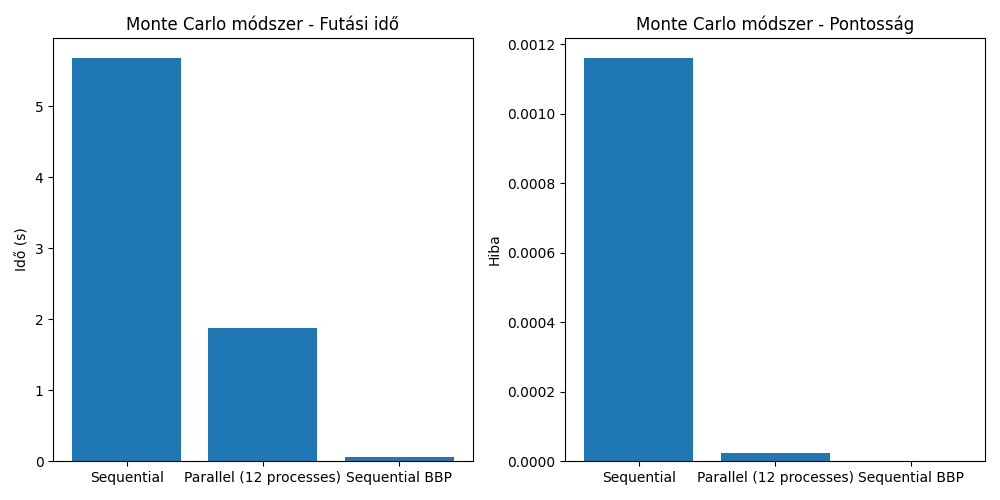
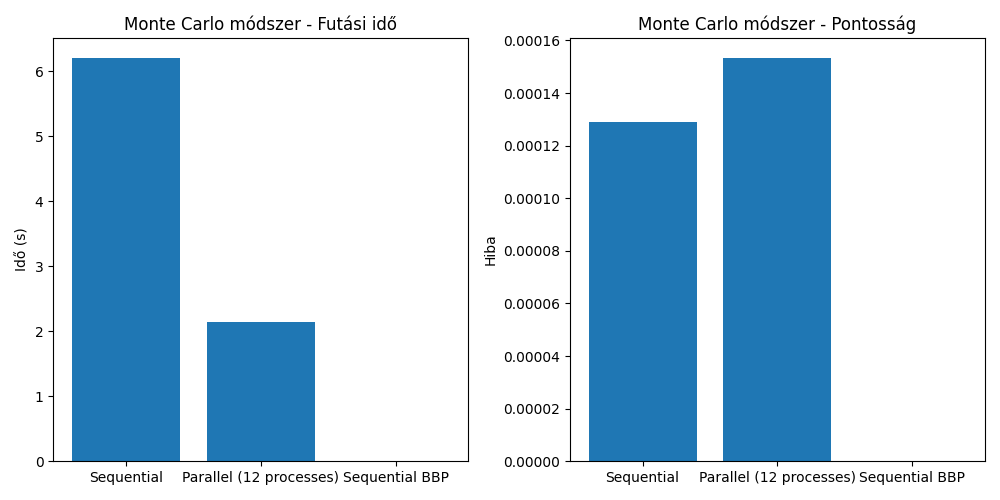
testrun

diff --git a/3.beadando/main.py b/3.beadando/main.py
@@ -54,13 +54,13 @@ if __name__ == '__main__':
 
         # Szekvenciál
         print(
-            f"{i+1}Sequential Time: {seq_times[i]:.6f}s, Pi: {seq_pis[i]:.100f}")
+            f"{i+1}Sequential Time: {seq_times[i]:.6f}s, Pi: {seq_pis[i]:.50f}")
         # Párhuzamos futás adatainak kiíratása
         print(
-            f"{i+1}Parallel Time: {par_times[i]:.6f}s, Pi: {par_pis[i]:.100f}")
+            f"{i+1}Parallel Time: {par_times[i]:.6f}s, Pi: {par_pis[i]:.50f}")
 
     # Szekvenciál
-    seqbbp = time_seq_BBP(1000)
+    seqbbp = time_seq_BBP(50)
 
     print(f"Sequential BBP Time:{seqbbp[0]:.6f}s, Pi: {seqbbp[1]}")
     print(
